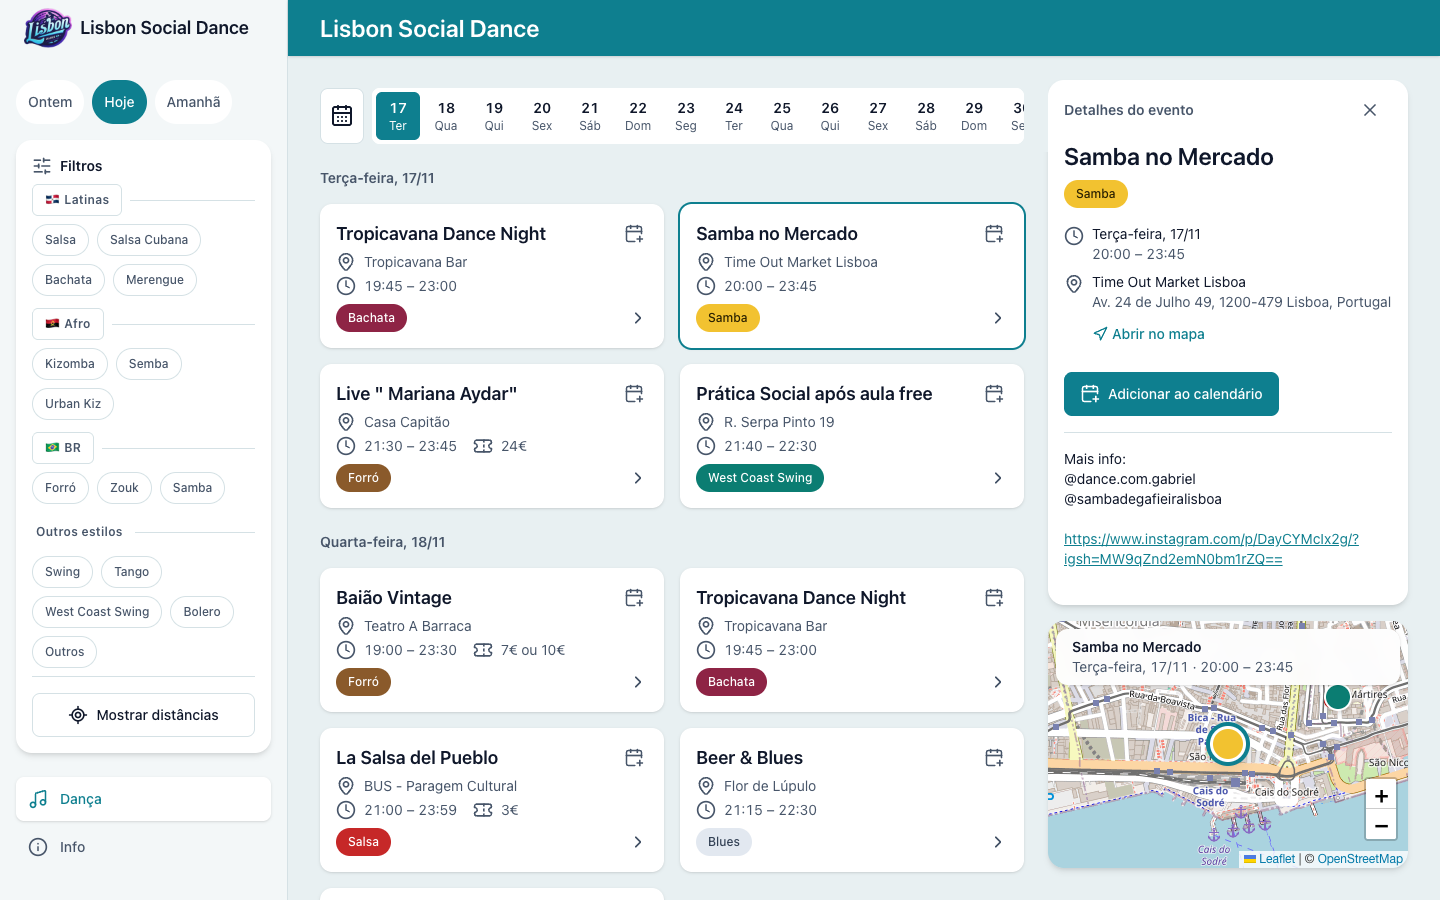
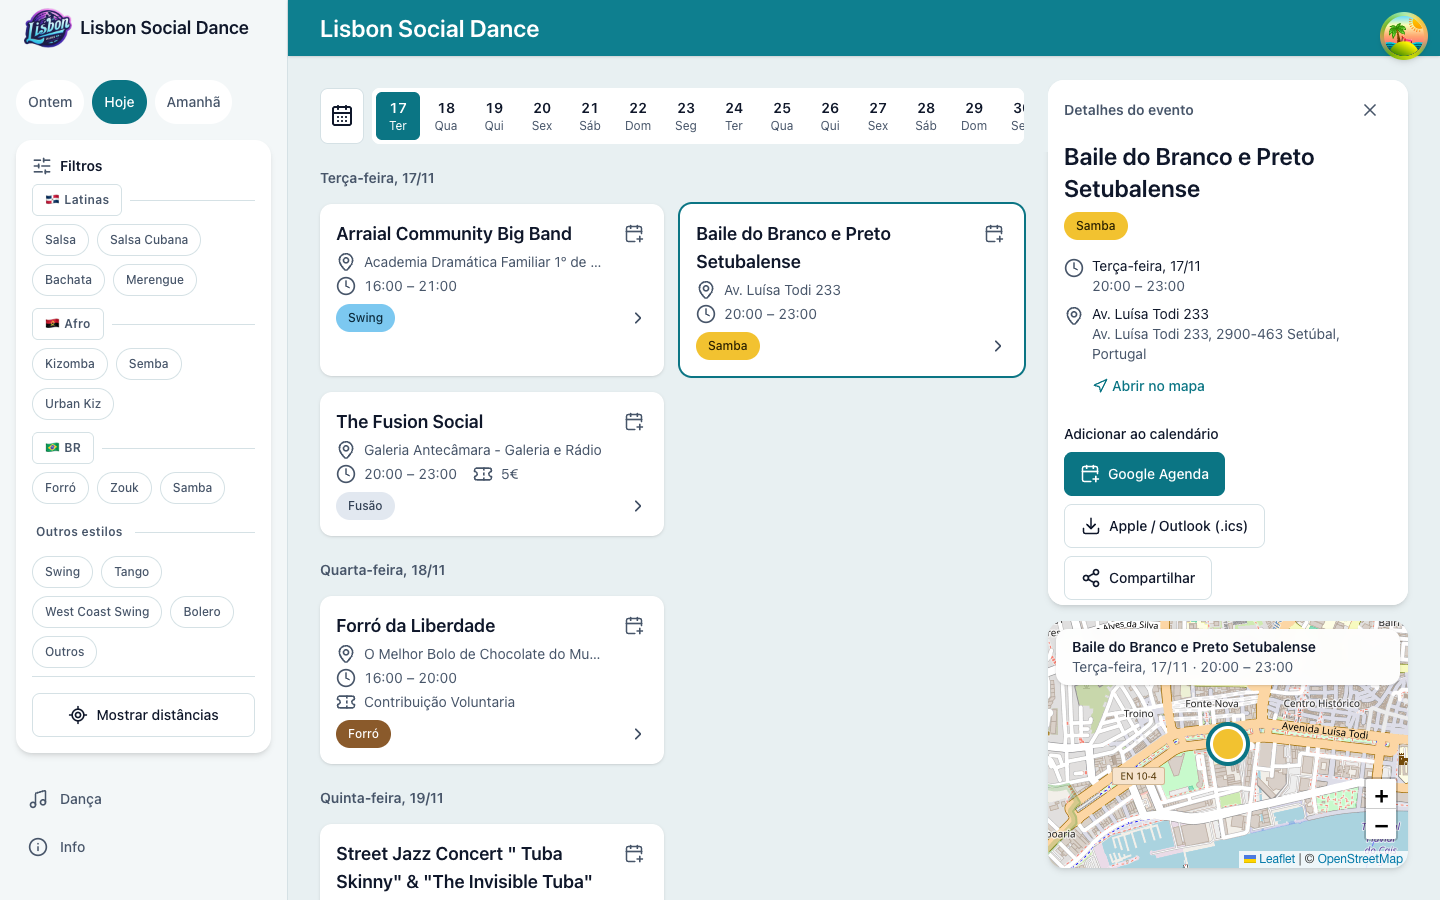
Refresh README screenshots and add manual TODO list
Screenshots regenerated in pt-BR from the mock data, README notes the
prerender step, new folders and the daily deploy, and TODO.md lists the
setup and checks that need a human (API key, GitHub settings, analytics,
Search Console, device tests).

diff --git a/README.md b/README.md
@@ -18,18 +18,18 @@
 
 | Lista e mapa | Detalhes do evento | Tema escuro com filtro |
 |---|---|---|
-| ![Lista de eventos com filtros na barra lateral e mapa à direita](docs/screenshots/desktop.png) | ![Detalhes do evento em cima e mapa embaixo, com o pino destacado](docs/screenshots/desktop-detalhes.png) | ![Tema escuro com o filtro Latinas ativo](docs/screenshots/desktop-escuro.png) |
+| ![Lista de eventos com filtros na barra lateral e mapa à direita](docs/screenshots/desktop.png) | ![Detalhes do evento aberto pela lista, em cima do mapa com o pino destacado](docs/screenshots/desktop-detalhes.png) | ![Tema escuro com o filtro Latinas ativo](docs/screenshots/desktop-escuro.png) |
 
 ### Celular
 
 | Lista | Filtros | Detalhes | Tema escuro |
 |---|---|---|---|
-| ![Lista de eventos no celular](docs/screenshots/mobile.png) | ![Painel de filtros com os conjuntos Latinas, Afro e BR](docs/screenshots/mobile-filtros.png) | ![Detalhes do evento em tela cheia](docs/screenshots/mobile-detalhes.png) | ![Lista no tema escuro](docs/screenshots/mobile-escuro.png) |
+| ![Lista de eventos no celular](docs/screenshots/mobile.png) | ![Filtros numa folha que sobe de baixo, com os conjuntos Latinas, Afro e BR](docs/screenshots/mobile-filtros.png) | ![Detalhes do evento em tela cheia](docs/screenshots/mobile-detalhes.png) | ![Lista no tema escuro](docs/screenshots/mobile-escuro.png) |
 
 ## Funcionalidades
 
 - **Feed por dia** a partir de hoje, carregado em janelas de 2 semanas com scroll infinito; atalhos Ontem / Hoje / Amanhã, faixa de dias e seletor de data. O dia ativo acompanha a rolagem.
-- **Filtros por estilo**, acumulativos e guardados na URL (`?genres=salsa,forro`). Conjuntos 🇩🇴 **Latinas** (Salsa, Salsa Cubana, Bachata, Merengue), 🇦🇴 **Afro** (Kizomba, Semba, Urban Kiz) e 🇧🇷 **BR** (Forró, Zouk, Samba), mais Swing, West Coast Swing, Tango, Bolero e Outros.
+- **Filtros por estilo** (na barra lateral no desktop; numa folha que sobe de baixo no celular e tablet), acumulativos e guardados na URL (`?genres=salsa,forro`). Conjuntos 🇩🇴 **Latinas** (Salsa, Salsa Cubana, Bachata, Merengue), 🇦🇴 **Afro** (Kizomba, Semba, Urban Kiz) e 🇧🇷 **BR** (Forró, Zouk, Samba), mais Swing, West Coast Swing, Tango, Bolero e Outros.
 - **Mapa** (a partir de 1280px) com os eventos do dia ativo; hover no card destaca o pino e vice-versa.
 - **Detalhes do evento**: na coluna do mapa no desktop, numa página em drawer no celular. Link compartilhável (`/evento/<data>-<nome>-<hash>/`, com página estática), rota no app de navegação do aparelho e "Adicionar ao calendário".
 - **Distância** até cada evento, quando o usuário libera a localização.
@@ -75,7 +75,7 @@ pnpm dev
 | Comando | O que faz |
 |---|---|
 | `pnpm dev` | Servidor de desenvolvimento (sem service worker; use `PWA_DEV=true pnpm dev` para testar o PWA). |
-| `pnpm build` | Checagem de tipos + build de produção. |
+| `pnpm build` | Checagem de tipos + build de produção + páginas estáticas dos eventos (`scripts/prerender.mjs`). |
 | `pnpm preview` | Serve o build localmente. |
 | `pnpm test` / `pnpm test:watch` | Testes (Vitest). |
 | `pnpm lint` | Lint (oxlint). |
@@ -91,14 +91,17 @@ src/
   domain/      modelo DanceEvent, parser de gêneros e do título, regras do filtro
   i18n/        idioma (detecção, escolha salva) e textos pt-BR / en-US
   features/
-    events/    feed, card, detalhes, seleção (eventFocusStore)
+    events/    feed, card, detalhes, seleção (eventFocusStore), calendário (.ics / Google Agenda)
     dates/     atalhos de dia, faixa de dias, navegação por dia
     genres/    painel e estado dos filtros
     map/       mapa (Leaflet)
     location/  localização do usuário, distância, geocodificação, rotas
+    tracking/  eventos adicionados ao calendário e aviso de mudanças
+  seo/         <head> por página, JSON-LD, páginas estáticas (prerender)
+  analytics/   GoatCounter
   components/  layout (header, sidebar, bottom nav) e componentes base (Chip, Card, Button…)
   pages/       Dança (/), Info (/info), Escolas (/escolas, oculta)
-scripts/       venues-check.mjs
+scripts/       prerender.mjs, venues-check.mjs, a11y-check.mjs
 docs/          prints, logo e protótipos de referência
 ```
 
@@ -131,7 +134,7 @@ Para corrigir um ponto, edite as coordenadas no `venues.json`: a busca automáti
 
 ## Deploy
 
-GitHub Pages, pelo workflow `.github/workflows/deploy.yml` a cada push no `main` (lint e testes antes do build).
+GitHub Pages, pelo workflow `.github/workflows/deploy.yml` a cada push no `main` e todo dia às 05:30 UTC, para as páginas dos eventos acompanharem o calendário (lint e testes antes do build).
 
 Em **Settings → Secrets and variables → Actions**:
 
@@ -142,6 +145,8 @@ Em **Settings → Secrets and variables → Actions**:
 | `VITE_GOATCOUNTER_CODE` | Variable | Código do site no GoatCounter (opcional) |
 
 O workflow `.github/workflows/venues.yml` (**Update venues**) roda todo dia às 05:00 UTC e também pode ser disparado manualmente.
+
+O que ainda precisa ser feito ou conferido à mão (chaves, configurações, verificações) está em [`TODO.md`](TODO.md).
 
 ## Planejamento
 

diff --git a/TODO.md b/TODO.md
@@ -1,0 +1,64 @@
+# TODO — tarefas manuais
+
+Coisas que o código não resolve sozinho: chaves, configurações e verificações que precisam ser feitas à mão.
+
+## 1. Chave da Google Calendar API
+
+- [ ] Criar um projeto no [Google Cloud Console](https://console.cloud.google.com/) (ou usar um existente).
+- [ ] Ativar a **Google Calendar API** em *APIs & Services → Library*.
+- [ ] Criar uma **API key** em *APIs & Services → Credentials*.
+- [ ] Restringir a chave (ela fica visível no JavaScript publicado):
+  - *Application restrictions* → **HTTP referrers**: `https://carloshrabelo.github.io/ai/*` e, para desenvolvimento, `http://localhost:*/*`.
+    O build das páginas estáticas (`scripts/prerender.mjs`) envia o referer do site, então a restrição também vale para o deploy.
+  - *API restrictions* → só **Google Calendar API**.
+- [ ] Colocar a chave no `.env.local` (`VITE_GOOGLE_API_KEY=…`, com `VITE_USE_MOCK=false`) e testar com `pnpm dev`.
+- [ ] Nunca commitar o `.env.local` (já está no `.gitignore`). Se a chave vazar, gerar outra e apagar a antiga.
+
+## 2. GitHub (Settings do repositório)
+
+- [ ] **Pages** → *Source*: **GitHub Actions**.
+- [ ] **Secrets and variables → Actions**:
+  - [ ] Secret `VITE_GOOGLE_API_KEY` com a chave do passo 1.
+  - [ ] Variable `VITE_USE_MOCK` = `false` (sem ela, o site é publicado com o mock).
+  - [ ] Variable `VITE_GOATCOUNTER_CODE` (passo 3, opcional).
+- [ ] **Actions → General → Workflow permissions**: se a Action *Update venues* falhar no push, permitir *Read and write* (ela grava o `venues.json` no `main`). Uma proteção de branch no `main` também bloquearia esse push.
+- [ ] Abrir e fazer o merge do PR da branch `feat/seo-ssg-share-analytics`:
+      https://github.com/carloshrabelo/ai/compare/main...feat/seo-ssg-share-analytics
+- [ ] Rodar uma vez à mão: **Actions → Update venues → Run workflow**, e conferir o commit do bot e o deploy seguinte.
+- [ ] Conferir se o deploy diário (05:30 UTC) está rodando em **Actions → Deploy to GitHub Pages**.
+
+## 3. Analytics (GoatCounter, opcional)
+
+- [ ] Criar a conta e o site em [goatcounter.com](https://www.goatcounter.com) (o código é o `<codigo>` de `https://<codigo>.goatcounter.com`).
+- [ ] Colocar o código na variable `VITE_GOATCOUNTER_CODE` (passo 2) e fazer um deploy.
+- [ ] Depois do deploy, abrir o site e conferir se a visita e os eventos (filtros, eventos abertos, calendário, compartilhar) aparecem no painel.
+
+## 4. SEO e compartilhamento (depois do deploy com a API)
+
+- [ ] [Google Search Console](https://search.google.com/search-console): adicionar a propriedade *URL prefix* `https://carloshrabelo.github.io/ai/`, verificar (meta tag no `index.html` ou arquivo HTML em `public/`) e enviar `sitemap.xml`.
+- [ ] `robots.txt`: no GitHub Pages, o que vale é o da raiz do domínio (`carloshrabelo.github.io/robots.txt`). Se existir o repositório `carloshrabelo.github.io`, colocar lá a linha `Sitemap: https://carloshrabelo.github.io/ai/sitemap.xml`.
+- [ ] Testar uma página de evento no [Rich Results Test](https://search.google.com/test/rich-results) (Schema.org `Event`).
+- [ ] Testar o preview de links (agenda e evento) no WhatsApp, Instagram/Facebook ([Sharing Debugger](https://developers.facebook.com/tools/debug/)) e LinkedIn.
+- [ ] Abrir um link antigo `…/ai/?event=<id>` e conferir que ele vai para `/evento/<slug>/`.
+
+## 5. Testes em aparelhos reais
+
+- [ ] **Adicionar ao calendário**: Google Agenda no Android e no desktop; `.ics` no iPhone (Safari) e no Outlook/Apple Calendar do Mac.
+- [ ] **Aviso de mudanças**: adicionar um evento ao calendário e, com um evento que mude de horário/local, conferir o aviso no topo da lista.
+- [ ] **Compartilhar**: menu do sistema no celular; cópia do link no desktop.
+- [ ] **PWA**: instalar no Android e no iPhone ("Adicionar à Tela de Início"), abrir offline e conferir que uma versão nova aparece sozinha depois de um deploy.
+- [ ] **Abrir no mapa**: rota no app de navegação do celular (Google Maps / Apple Maps).
+- [ ] **Distância**: permitir a localização e conferir os valores.
+- [ ] **Acessibilidade**: além do `pnpm a11y` (automático), passar a tela com leitor de tela (VoiceOver no iPhone/Mac, TalkBack no Android) e só com teclado.
+
+## 6. Conteúdo e dados
+
+- [ ] Confirmar com o pasdedeux.pt / [@ateterca](https://www.instagram.com/ateterca/) que está tudo bem usar e exibir os eventos do calendário.
+- [ ] Revisar os locais com pino errado no mapa e corrigir as coordenadas em `src/data/venues.json`.
+- [ ] Revisar tags novas que caem em **Outros** e, se fizer sentido, criar estilo ou alias em `src/domain/genres.ts`.
+- [ ] **Escolas** (aba oculta): definir de onde viriam os dados antes de reativá-la.
+
+## 7. Opcional
+
+- [ ] Domínio próprio (GitHub Pages → *Custom domain*): aí `robots.txt` e `sitemap.xml` passam a valer na raiz. Atualizar `SITE_URL` no build e o referer da chave do Google.
+- [ ] Virtualização da lista de eventos, se a lista ficar longa demais.
